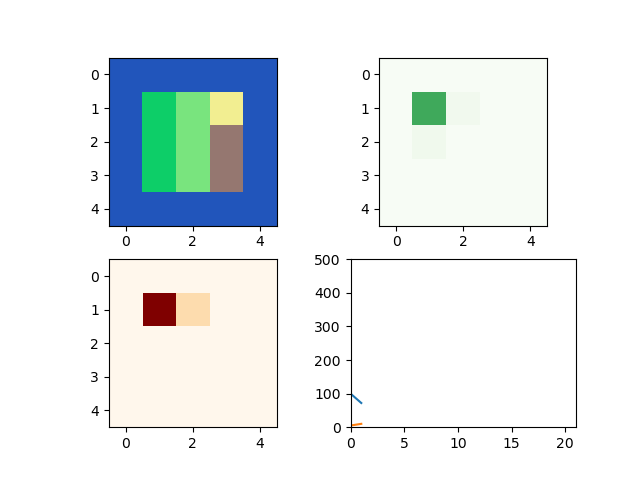
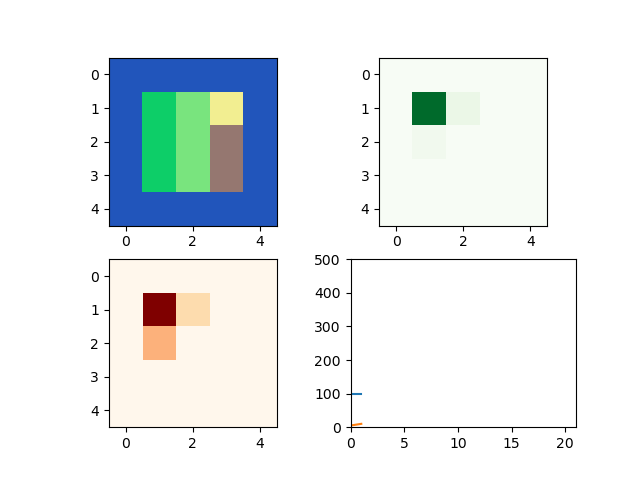
while loop for food done

Changed region(s): [[0.625, 0.1875, 0.7188, 0.2812], [0.2188, 0.6562, 0.2812, 0.75], [0.5312, 0.8125, 0.5625, 0.8438]]

diff --git a/src/biosim/Animal.py b/src/biosim/Animal.py
@@ -191,7 +191,7 @@ class Carnivore(Animal):
         :return:None
         """
         amount_eaten = 0
-        while amount_eaten <= self.p['F']:
+        while amount_eaten >= self.p['F']:
 
             herb_list = [animal for animal in cell.animal_object_list
                          if type(animal).__name__ == "Herbivore"]
@@ -200,7 +200,6 @@ class Carnivore(Animal):
                                      reverse=True)
 
             dead_list = []
-
             for ind, herb in enumerate(herb_sorted_rev):
                 if self.fitness > herb.fitness:
                     if self.fitness - herb.fitness < self.p['DeltaPhiMax']:
@@ -214,9 +213,7 @@ class Carnivore(Animal):
                     else:
                         dead_list.append(herb)
                         amount_eaten += herb.weight
-
-
-            # Delete herbivores from list in the cell
+            # Delete herbivores from list in the cell, update the list
             cell.animal_object_list = [
                 animal for animal in cell.animal_object_list
                 if animal not in dead_list]
